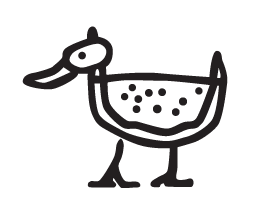
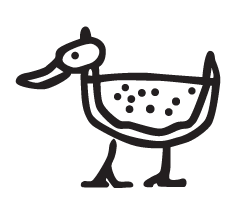
JQuery 제거

Changed region(s): [[0.0596, 0.1143, 0.9532, 0.9143]]

diff --git a/html5-canvas-paint-bucket.js b/html5-canvas-paint-bucket.js
@@ -23,24 +23,27 @@ palette.addEventListener(('click'), (e) => {
 
 let paintBucketApp = (function () {
 	let context,
-		canvasWidth = 490,
-		canvasHeight = 220,
+		// canvasWidth = 490,
+		// canvasHeight = 220,
+		canvasWidth = 300,
+		canvasHeight = 300,
 		
 		outlineImage = new Image(), // 누끼 이미지 (선만 딴거)
 		backgroundImage = new Image(), // 빈 png 
 
-		drawingAreaX = 111, // 이건 머니?????? 그림 그리는 영역의 X좌표?
-		drawingAreaY = 11, // 얘는 또 머니???? 그림 그리는 영역의 y좌표???
-		drawingAreaWidth = 267, // watermelon-duck 이미지의 가로 크기
-		drawingAreaHeight = 200, // watermelon-duck 이미지의 세로 크기 
+		drawingAreaX = 0, // 이건 머니?????? 그림 그리는 영역의 X좌표?
+		drawingAreaY = 0, // 얘는 또 머니???? 그림 그리는 영역의 y좌표???
+		// drawingAreaWidth = 267, // watermelon-duck 이미지의 가로 크기
+		// drawingAreaHeight = 200, // watermelon-duck 이미지의 세로 크기 
+		drawingAreaWidth = 280,
+		drawingAreaHeight = 150,
 		colorLayerData, // RGBA의 값을 가진 객체 
 		outlineLayerData, // RGBA의 값을 가진 객체
-		totalLoadResources = 2, // 총 로드해야할 리소스(이미지) 개수는 3
+		totalLoadResources = 2, // 총 로드해야할 리소스(이미지) 개수는 2
 		curLoadResNum = 0, // 로드된 이미지 수 카운트 
 
 		// Clears the canvas.
 		clearCanvas = function () {
-
 			context.clearRect(0, 0, canvasTag.width, canvasTag.height);
 		},
 

diff --git a/html5-canvas-paint-bucket.html b/html5-canvas-paint-bucket.html
@@ -17,10 +17,15 @@
       <div class="controls__color jsColor" style="background-color: rgb(0, 116, 56)"></div>
       <div class="controls__color jsColor" style="background-color: rgb(0, 85, 102)"></div>
     </div>
-    <script src="http://ajax.googleapis.com/ajax/libs/jquery/1.4.2/jquery.js"></script>
+    <!-- <script src="http://ajax.googleapis.com/ajax/libs/jquery/1.4.2/jquery.js"></script> -->
     <script src="html5-canvas-paint-bucket.js"></script>
-    <script> $(document).ready(function () {
-    	 paintBucketApp.init();
-});</script>
+    <script> 
+      window.addEventListener('DOMContentLoaded', function() {
+        paintBucketApp.init();
+      });
+      // $(document).ready(function () {
+      //   paintBucketApp.init();
+      // });
+    </script>
   </body>
 </html>

diff --git a/style.css b/style.css
@@ -1,3 +1,7 @@
+* {
+    box-sizing: border-box;
+}
+
 .controls {
     margin-top: 10px;
     display: flex;
@@ -25,9 +29,12 @@
 
 #canvasDiv {
     border: 5px solid red;
+    width: 350px;
+    height: 350px;
 }
 
 #canvas {
     width: 300px;
-    height: 180px;
+    height: 300px;
+    border: 3px solid blue;
 }
